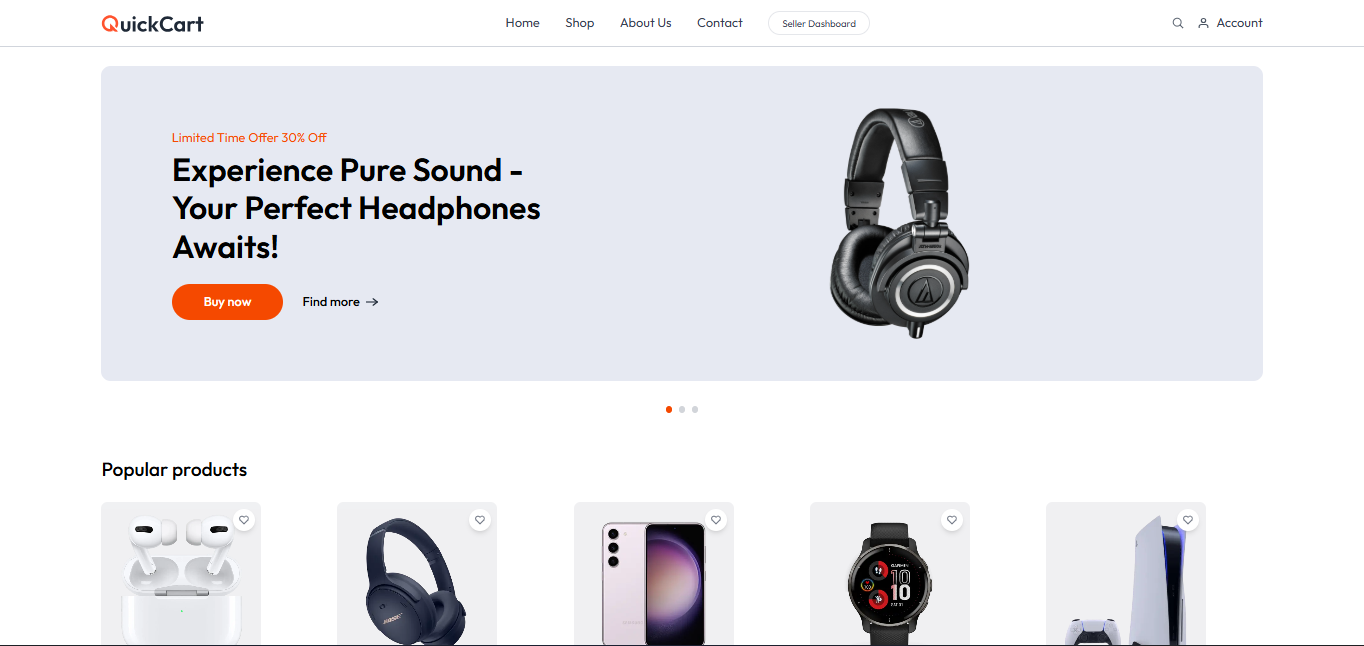
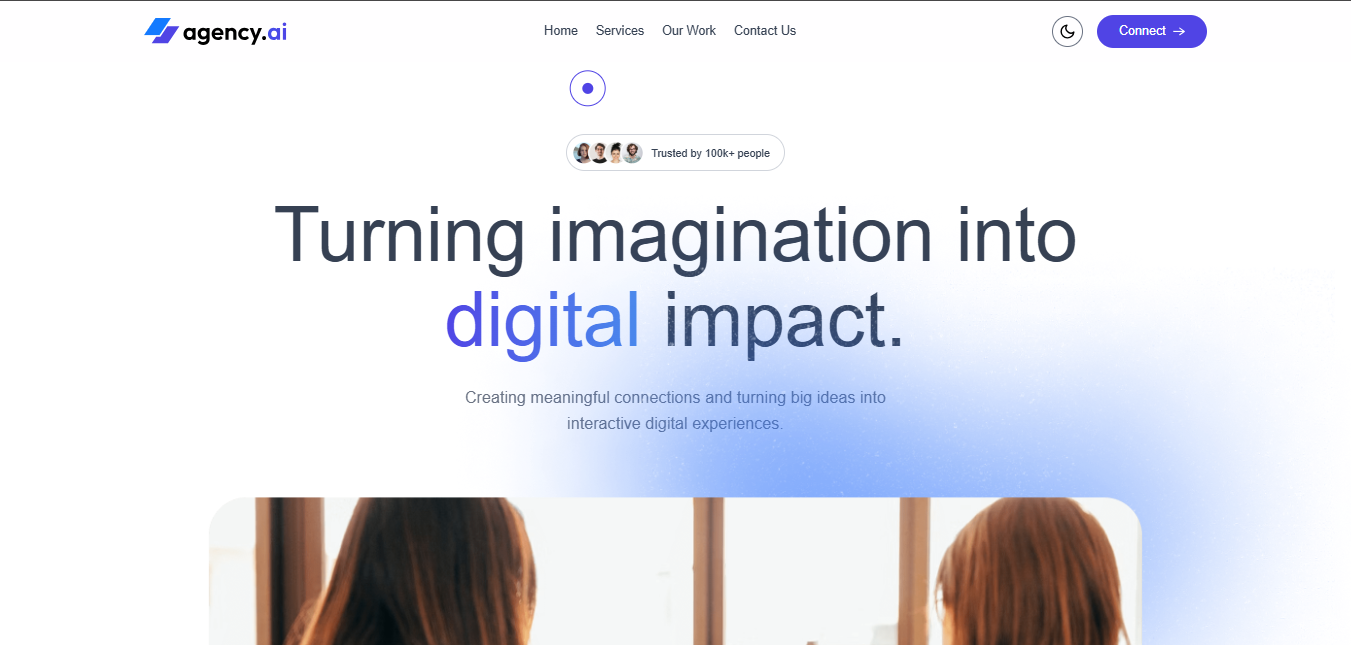
fix

diff --git a/src/assets/assets.ts b/src/assets/assets.ts
@@ -81,12 +81,12 @@ export const highlights = [
 
 export const projects = [
     {
-        title: 'Hotel-Booking',
+        title: 'AIE Collection',
         description:
-            'It is a service that allows user to search, compare, and reserve hotel rooms online. It provides details on pricing, availability, and amenities, making it easy for travelers to find and book comfortable accommodations for their trips.',
+            'AIE Collection is a modern fashion and lifestyle brand that offers stylish and affordable clothing for different tastes and occasions. It focuses on quality designs, trendy outfits, and a smooth shopping experience for customers.',
         image: project1,
-        tags: ['React', 'Javascript', 'NodeJS', 'Clerk', 'React-dom', 'React-router-dom'],
-        github: 'https://hotel-booking-seven-green.vercel.app/',
+        tags: ['React', 'Javascript', 'React-dom', 'React-router-dom', 'lucide-react', 'tailwindcss', 'react-toastify'],
+        github: 'https://aie-collection.vercel.app/',
     },
     {
         title: 'CarRental',
@@ -97,20 +97,20 @@ export const projects = [
         github: 'https://cars-eight-omega.vercel.app/',
     },
     {
-        title: 'QuickCart',
+        title: 'Agency-AI',
         description:
-            'It is a modern e-commerce platform that allows users to browse products, add items to their cart, and complete purchases quickly and securely. It provides a smooth, shopping experience with an intuitive interface, efficient product management, and seamless checkout functionality.',
+            'Agency-AI is an AI-powered agency platform that helps businesses automate tasks, manage workflows, and improve productivity. It provides smart tools for content creation, customer support, and digital operations, making business processes faster and more efficient.',
         image: project3,
-        tags: ['React', 'React-dom', 'React-hot-toast', 'tailwindcss', 'React-router-dom'],
-        github: 'https://quick-cart-two-gilt.vercel.app/',
+        tags: ['React', 'React-dom', 'React-hot-toast', 'tailwindcss', 'motion', 'picomatch', 'remove-node-modules'],
+        github: 'https://agency-ai-chi-flame.vercel.app/',
     },
     {
-        title: 'gocart',
+        title: 'CodeFlow',
         description: 
-            'It is a fast and user-friendly e-commerce platform that allows users to browser products, add items to their cart, and make secure purchases. It is designed to provide a smooth and convenient online shopping experience with quick navigation and easy checkout.',
+            'CodeFlow is a developer- focused platform designed to simplify coding, collaboration, and project management. It helps programmers write, organize, and deploy code efficiently with smooth workflows and modern development tools.',
         image: project4,
-        tags: ['React', 'redux.js', 'lucide-react', 'react-dom', 'react-redux', 'react-dom', 'react-router-dom', 'recharts', 'tailwindcss'],
-        github: 'https://gocart-jg7i.vercel.app/',
+        tags: ['React', 'motion', 'lucide-react', 'react-dom', 'react-syntax-highlighter', 'tailwindcss'],
+        github: 'https://codeflow-mauve-nu.vercel.app/',
     },
 ];
 